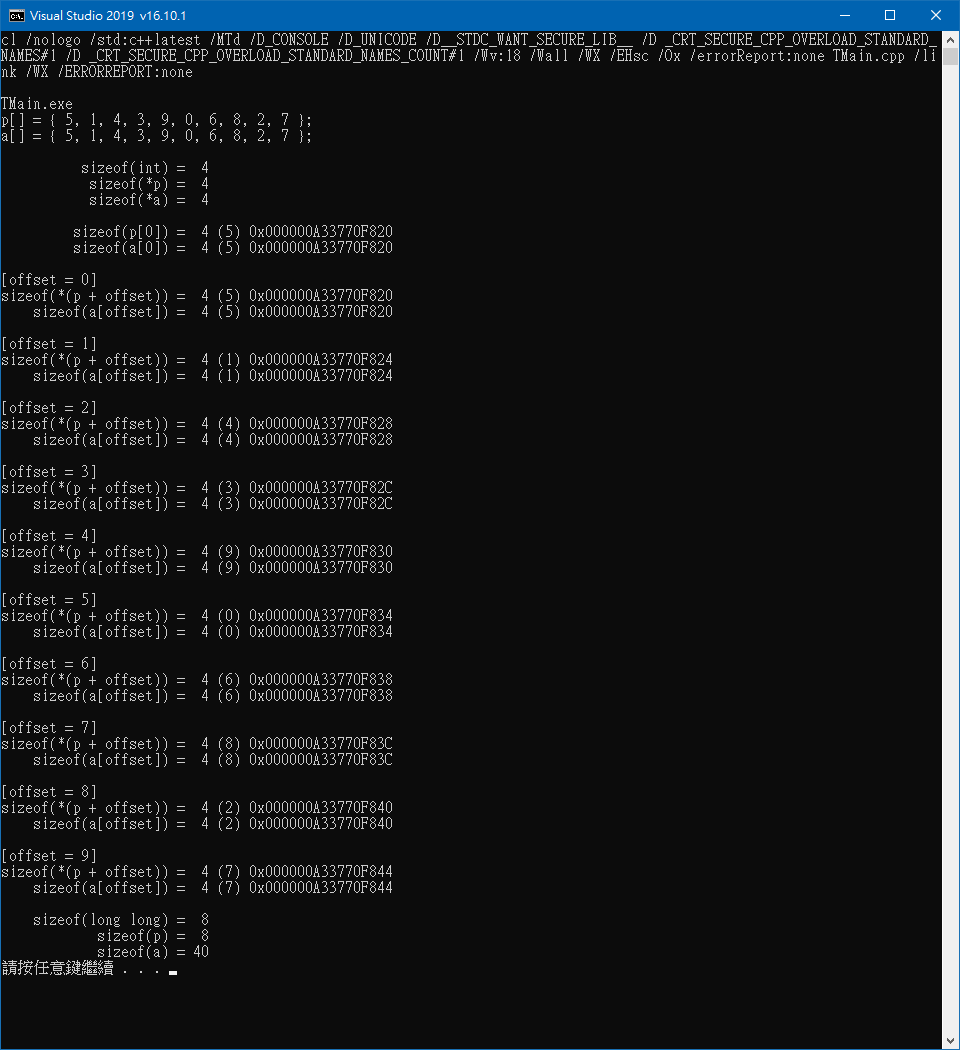
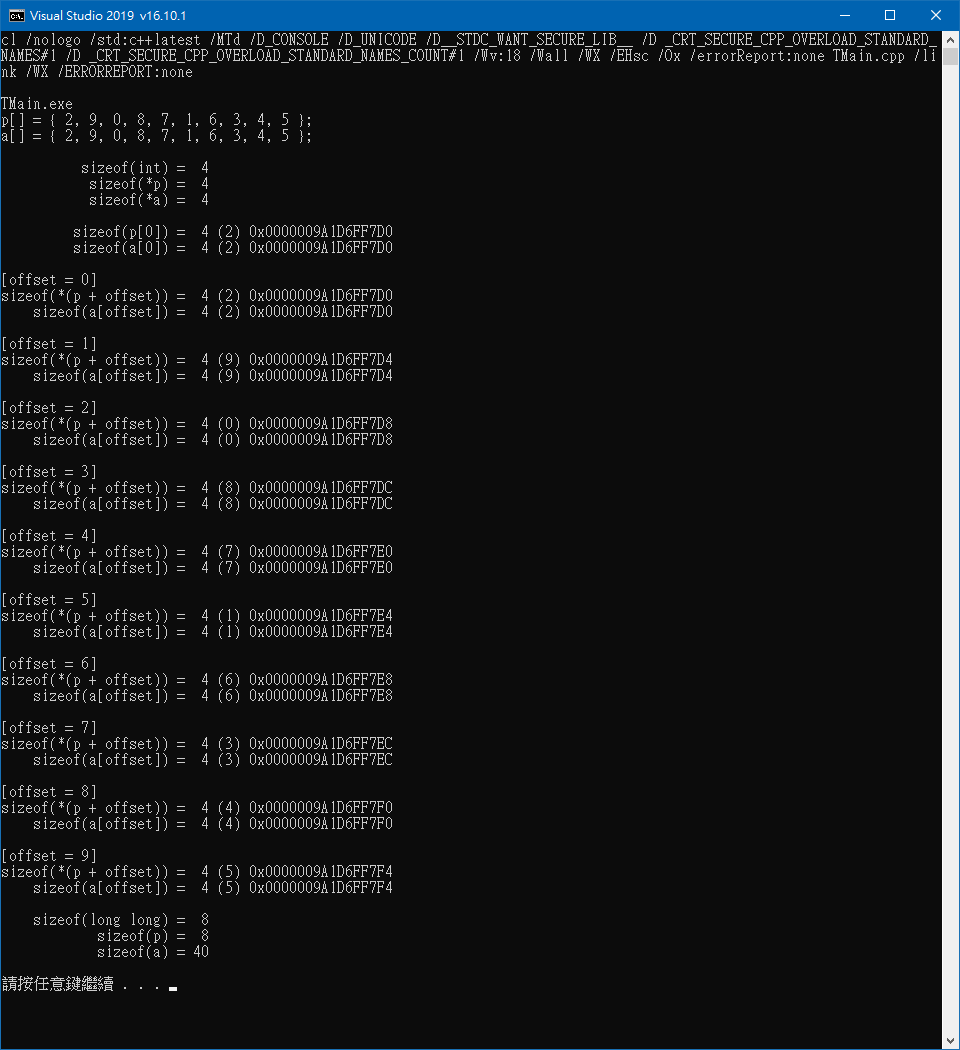
陣列與指標比較，使用類別模擬。

diff --git a/Array/TMain.cpp b/Array/TMain.cpp
@@ -5,6 +5,7 @@
 #include "TMain.h"
 #include "TClass.h"
 
+#define USE_TCLASS // 陣列與指標比較，使用類別模擬。
 #define ARRAY_SIZE 10
 
 using namespace std;
@@ -22,8 +23,10 @@ int _tmain(int argc, _TCHAR **argv, _TCHAR **envp)
     ios::sync_with_stdio(false), tcin.tie(nullptr);
 
     int a[ARRAY_SIZE] = { 0, 1, 2, 3, 4, 5, 6, 7, 8, 9 };
-    /*int *p = nullptr;
-    p = a;*/
+#ifndef USE_TCLASS
+    int *p = nullptr;
+    p = a;
+#endif
 
     /* 亂數排序陣列元素。 */
     array<int, ARRAY_SIZE> list;
@@ -32,9 +35,10 @@ int _tmain(int argc, _TCHAR **argv, _TCHAR **envp)
     shuffle(list.begin(), list.end(), default_random_engine(seed()));
     copy(begin(list), end(list), begin(a));
 
+#ifdef USE_TCLASS
     TClass<int, ARRAY_SIZE> *p = nullptr;
     p = new TClass<int, ARRAY_SIZE>(a);
-    tcout << _T('\n');
+#endif
 
     tcout << _T("p[] = { ") << p[0] << _T(", ") << p[1] << _T(", ") << p[2] << _T(", ") << p[3] << _T(", ") << p[4] << _T(", ") << p[5] << _T(", ") << p[6] << _T(", ") << p[7] << _T(", ") << p[8] << _T(", ") << p[9] << _T(" };\n");
     tcout << _T("a[] = { ") << a[0] << _T(", ") << a[1] << _T(", ") << a[2] << _T(", ") << a[3] << _T(", ") << a[4] << _T(", ") << a[5] << _T(", ") << a[6] << _T(", ") << a[7] << _T(", ") << a[8] << _T(", ") << a[9] << _T(" };\n\n");
@@ -58,10 +62,12 @@ int _tmain(int argc, _TCHAR **argv, _TCHAR **envp)
     tcout << setw(len1) << _T("sizeof(p) = ") << setw(len2) << sizeof(p) << _T('\n');
     tcout << setw(len1) << _T("sizeof(a) = ") << setw(len2) << sizeof(a) << _T("\n\n");
 
+#ifdef USE_TCLASS
     if (p != nullptr)
     {
         delete p;
     }
+#endif
 
     tcout << _T("請按任意鍵繼續 . . . ") << flush;
     _gettch();

diff --git a/Array/TClass.h b/Array/TClass.h
@@ -22,20 +22,23 @@ namespace main
         {
             tostringstream oss;
             size_t pos = 0;
+            int *offset = nullptr;
 
             if (ptr > 0)
             {
-                pos = static_cast<size_t>(((long long)&obj - ptr) / 40);
+                pos = static_cast<size_t>((reinterpret_cast<long long>(&obj) - ptr) / 40);
                 oss << pos;
             }
             else
             {
-                ptr = (long long)&obj;
+                ptr = reinterpret_cast<long long>(&obj);
                 oss << ptr;
             }
 
             //return os << oss.str();
-            return os << obj[pos];
+            //return os << obj[pos];
+            offset = reinterpret_cast<int*>(ptr + static_cast<int>(pos * 4));
+            return os << *offset;
         }
 
     public:

diff --git a/Array/README.md b/Array/README.md
@@ -1,3 +1,7 @@
 # 指標與陣列結構
 
 ![Array](Array.png "Array")
+
+**`#define USE_TCLASS`** // 陣列與指標比較，使用類別模擬。
+
+![Array_Class](Array_Class.png "Array_Class")
